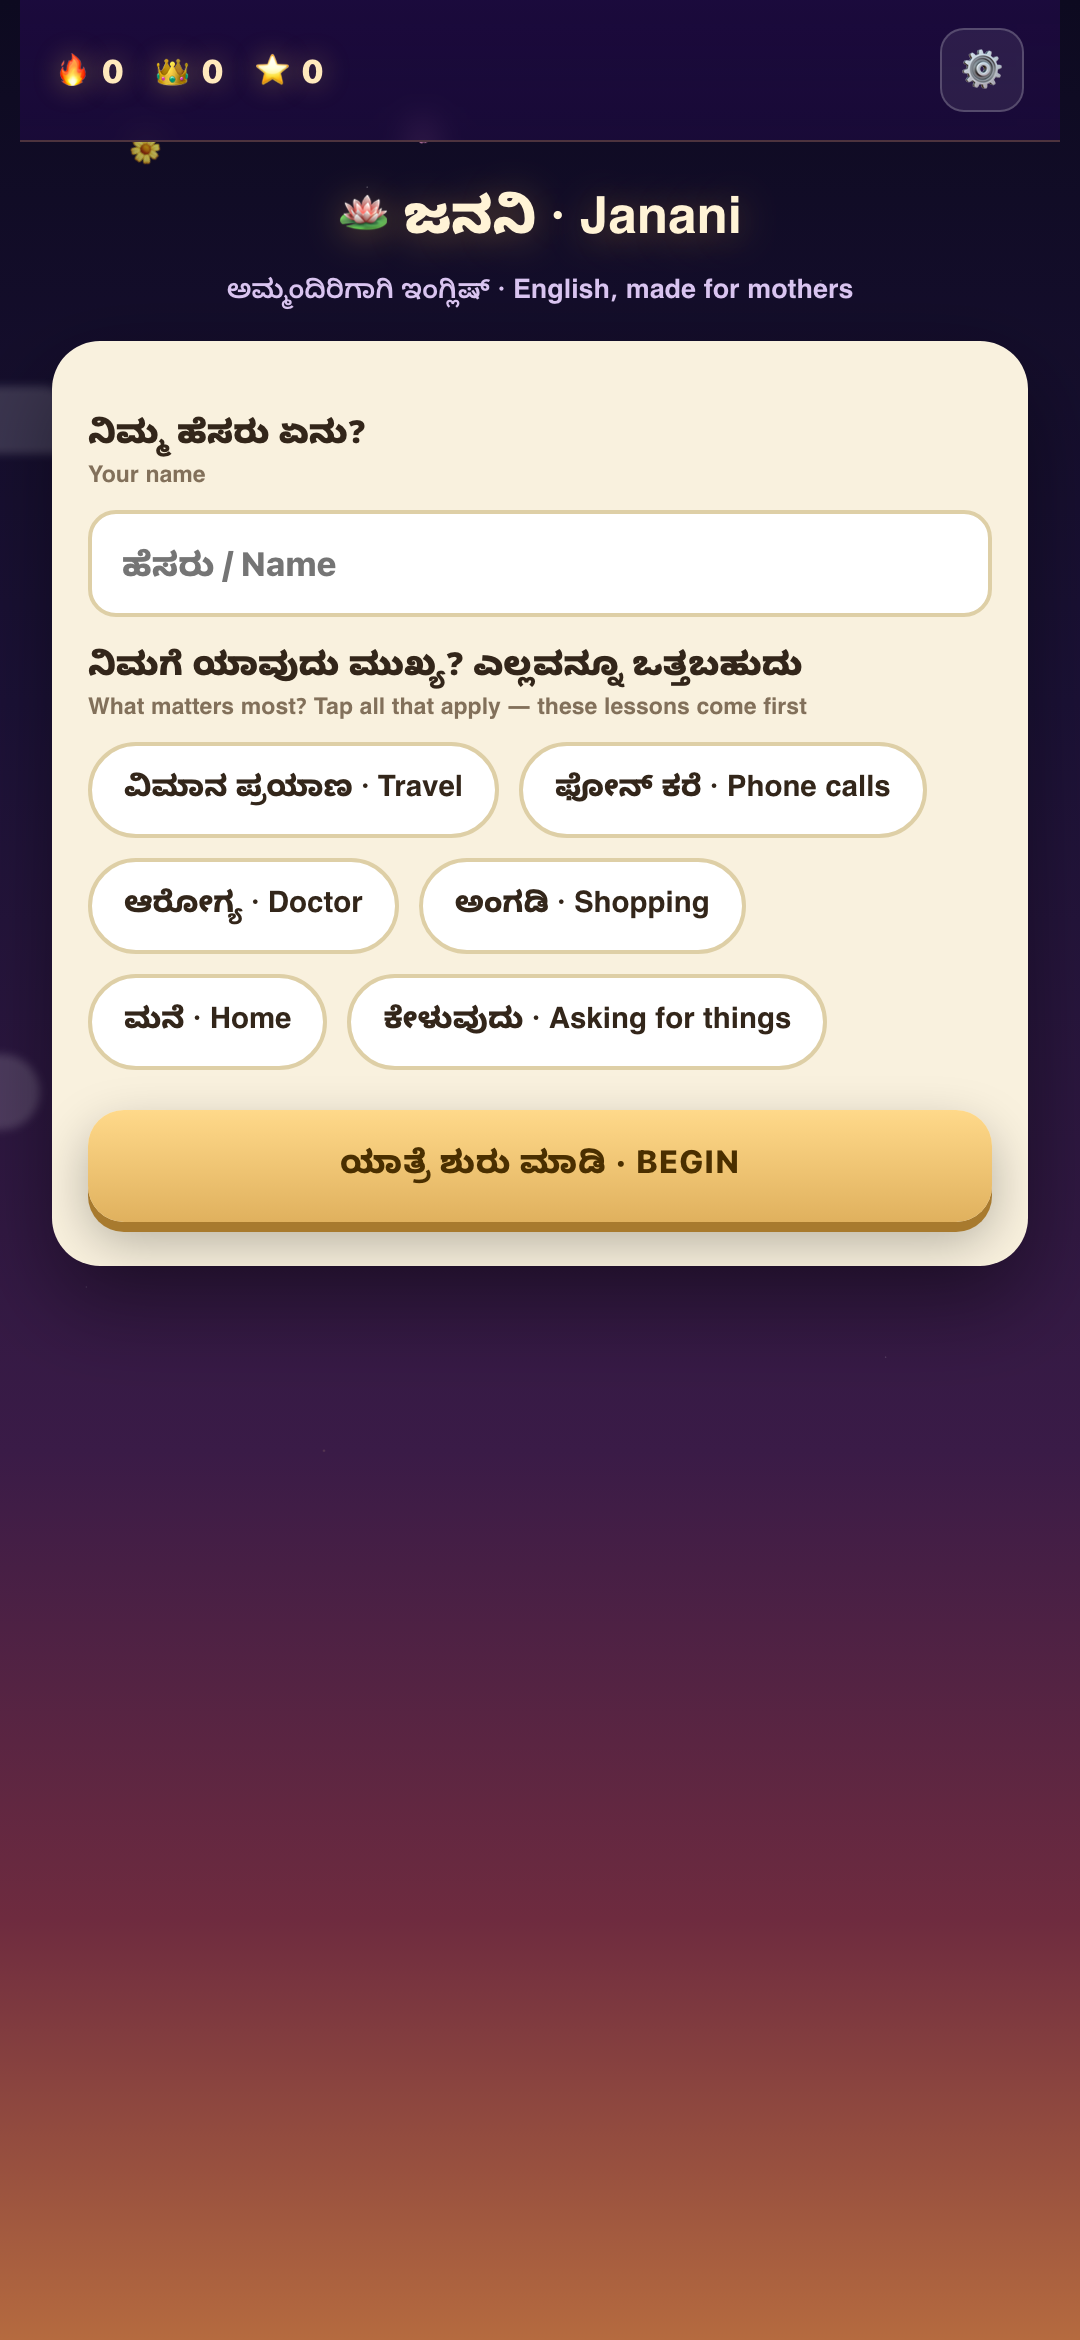
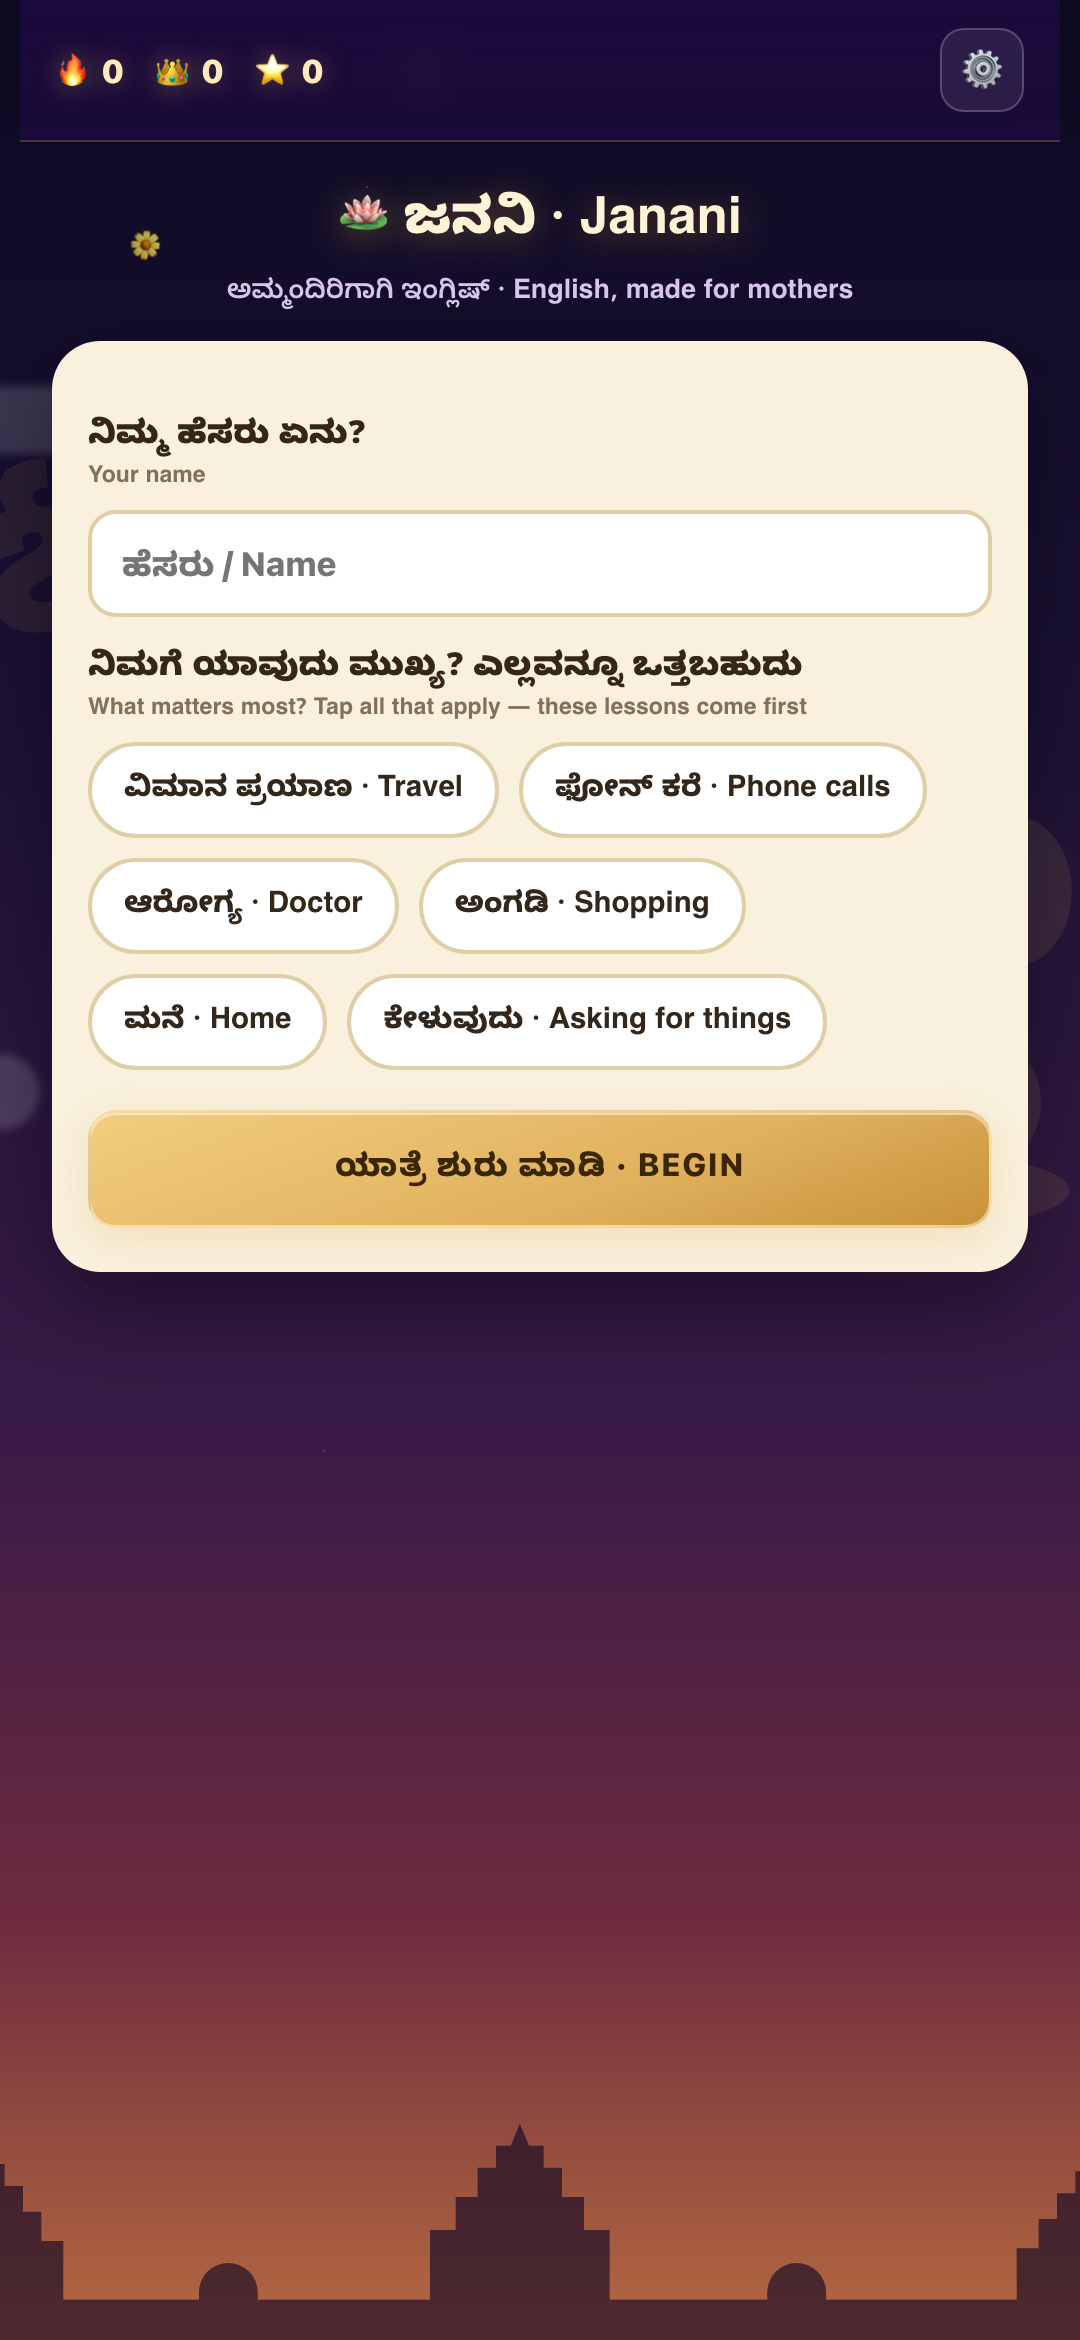
v12: progress rangoli (mandala fills as lessons complete), time-of-day living sky, flickering lit diyas, version stamp

Changed region(s): [[0.0, 0.9047, 1.0, 1.0], [0.0611, 0.4679, 0.9167, 0.5615], [0.1222, 0.0624, 0.1528, 0.1248]]

diff --git a/index.html b/index.html
@@ -24,6 +24,8 @@
     background:linear-gradient(180deg,var(--sky1) 0%,var(--sky2) 30%,var(--sky3) 62%,var(--sky4) 82%,var(--horizon) 105%);
     background-attachment:fixed;
   }
+  body.sky-morning{background:linear-gradient(180deg,#241638 0%,#3A2158 28%,#7A3D66 58%,#C97C5A 84%,#E8B36A 105%);background-attachment:fixed}
+  body.sky-day{background:linear-gradient(180deg,#1B2145 0%,#2C3168 34%,#5C4C86 64%,#8E5C74 85%,#D89A5E 105%);background-attachment:fixed}
   .kn{font-family:"Noto Sans Kannada","Noto Sans","Nirmala UI",sans-serif}
   button{font-family:inherit;font-weight:800;cursor:pointer}
   .hidden{display:none!important}
@@ -70,7 +72,7 @@
   .bg-ganesha{position:fixed;right:-30px;top:30%;width:220px;opacity:.12;z-index:0;pointer-events:none;filter:drop-shadow(0 0 30px rgba(224,177,94,.25))}
   .bg-gopuram{position:fixed;bottom:0;left:0;width:100%;height:110px;opacity:.65;z-index:0;pointer-events:none}
   @media (prefers-reduced-motion:reduce){
-    .stars,.stars2,.petal,.cloud,.node .bubble,.mascot{animation:none!important}
+    .stars,.stars2,.petal,.cloud,.node .bubble,.mascot,.diya.lit{animation:none!important}
     *{transition:none!important}
   }
 
@@ -241,6 +243,13 @@
     font-size:calc(1.02rem*var(--fs));box-shadow:0 8px 22px rgba(0,0,0,.35);border:1px solid rgba(255,255,255,.14)}
   .level-band .lb-en{display:block;font-size:calc(.66rem*var(--fs));letter-spacing:1.3px;text-transform:uppercase;opacity:.85;margin-top:4px;font-weight:800}
 
+  /* ================= PROGRESS RANGOLI ================= */
+  .rangoli-wrap{text-align:center;padding:2px 0 10px}
+  .rangoli{width:150px;height:150px;display:inline-block;filter:drop-shadow(0 0 22px rgba(224,177,94,.25))}
+  .rangoli-cap{font-size:calc(.72rem*var(--fs));color:#D9C4F0;font-weight:700;margin-top:2px}
+  .r-lit{fill:var(--gold);stroke:none;opacity:.95}
+  .r-dim{fill:none;stroke:rgba(224,177,94,.3);stroke-width:1.4}
+
   /* ================= TEMPLE-DOOR COURTYARD ================= */
   .hero{width:100%;border:1.5px solid rgba(255,243,214,.55);border-radius:18px;padding:16px;cursor:pointer;
     background:linear-gradient(160deg,#F2CE7E,#E0B15E 55%,#B9852F);color:#3A2504;display:flex;flex-direction:column;gap:3px;
@@ -264,7 +273,8 @@
   .diya{width:70px;height:76px;border:2px solid var(--silk-line);border-radius:50% 50% 42% 42%;background:#fff;
     font-size:1.5rem;display:flex;flex-direction:column;align-items:center;justify-content:center;gap:2px;font-weight:900;color:var(--ink);font-family:inherit;cursor:pointer}
   .diya span{font-size:.68rem;color:var(--ink-soft)}
-  .diya.lit{background:linear-gradient(180deg,#FFF3D6,#F2CE7E);border-color:var(--gold-d)}
+  .diya.lit{background:linear-gradient(180deg,#FFF3D6,#F2CE7E);border-color:var(--gold-d);animation:flick 2.6s ease-in-out infinite}
+  @keyframes flick{0%,100%{filter:brightness(1)}50%{filter:brightness(1.22) drop-shadow(0 0 7px rgba(255,200,90,.65))}}
   .diya.next{border-color:var(--gold);box-shadow:0 0 18px rgba(224,177,94,.55)}
   .diya.off{opacity:.45;cursor:default}
 
@@ -358,6 +368,10 @@
       <button class="hero hidden kn" id="heroGo"></button>
       <button class="btn3d hidden" id="btnReview" style="width:100%">🏹 ದಿನದ ಅಭ್ಯಾಸ · TODAY'S ABHYASA</button>
       <button class="btn3d jade" id="btnGuru" style="width:100%;margin-top:12px">🪶 ಗುರು ಜೊತೆ ಮಾತು · PRACTICE CONVERSATION</button>
+    </div>
+    <div class="rangoli-wrap">
+      <svg id="rangoliSvg" class="rangoli" viewBox="0 0 160 160" aria-hidden="true"></svg>
+      <div class="rangoli-cap kn" id="rangoliCap"></div>
     </div>
     <div id="pathNodes"></div>
     <div class="journey-end">
@@ -455,6 +469,7 @@
     <button class="reset kn" id="btnProfile" style="border-color:var(--silk-line);color:var(--ink)">ಹೆಸರು / ಗುರಿ ಬದಲಿಸಿ · Edit name &amp; goals</button>
     <button class="reset kn" id="btnReset">ಪ್ರಗತಿಯನ್ನು ಅಳಿಸಿ · Reset all progress</button>
     <button class="btn3d close kn" id="btnCloseSheet">ಮುಚ್ಚಿ · CLOSE</button>
+    <div class="sub" style="text-align:center;margin-top:12px;opacity:.7">ಜನನಿ · Janani v1.0.0 — made with love</div>
   </div>
 </div>
 
@@ -900,6 +915,7 @@
   function renderPath(){
     renderHud();
     $("greetTitle").textContent="ನಮಸ್ಕಾರ, "+profName()+" 🌼";
+    renderRangoli();
     var next=null,i;
     for(i=0;i<LESSONS.length;i++){ if(!state.done[LESSONS[i].key]){ next=LESSONS[i]; break; } }
     var hero=$("heroGo");
@@ -934,6 +950,23 @@
     Array.prototype.forEach.call($("pathNodes").querySelectorAll(".door"),function(d){
       d.addEventListener("click",function(){ openParva(+d.getAttribute("data-ui")); });
     });
+  }
+  function renderRangoli(){
+    var total=LESSONS.length, done=0;
+    LESSONS.forEach(function(l){ if(state.done[l.key]) done++; });
+    var svg=$("rangoliSvg"); if(!svg) return;
+    var parts=[{t:"circle",a:{cx:80,cy:80,r:6}}], i;
+    for(i=0;i<8;i++)  parts.push({t:"ellipse",a:{cx:80,cy:52,rx:7,ry:16},rot:i*45});
+    for(i=0;i<12;i++) parts.push({t:"circle",a:{cx:80,cy:28,r:3.5},rot:i*30+15});
+    for(i=0;i<8;i++)  parts.push({t:"path",a:{d:"M80,14 q6,10 0,20 q-6,-10 0,-20"},rot:i*45+22.5});
+    var lit=Math.round(parts.length*done/Math.max(1,total));
+    var out="";
+    parts.forEach(function(p,ix){
+      var attrs="",k; for(k in p.a) attrs+=k+'="'+p.a[k]+'" ';
+      out+="<"+p.t+" "+attrs+'class="'+(ix<lit?"r-lit":"r-dim")+'"'+(p.rot!=null?' transform="rotate('+p.rot+' 80 80)"':"")+"/>";
+    });
+    svg.innerHTML=out;
+    $("rangoliCap").textContent="ನಿಮ್ಮ ಪ್ರಗತಿಯ ರಂಗೋಲಿ · "+done+" / "+total+" ಪಾಠ";
   }
   function openParva(ui){
     var u=UNITS[ui], uL=LESSONS.filter(function(l){return l.ui===ui;});
@@ -1426,6 +1459,11 @@
     renderSetup(); show("setup");
   };
 
+  (function(){
+    var h=new Date().getHours();
+    if(h>=5&&h<11) document.body.classList.add("sky-morning");
+    else if(h>=11&&h<17) document.body.classList.add("sky-day");
+  })();
   applyFs(); applyTg();
   /* #demo — seeded state for store screenshots; harmless for real users */
   if(location.hash.indexOf("#demo")===0 && !state.profile){

diff --git a/sw.js b/sw.js
@@ -1,5 +1,5 @@
 /* Janani — offline cache */
-var CACHE = "janani-v7";
+var CACHE = "janani-v8";
 var ASSETS = ["./", "./index.html", "./manifest.json", "./icon-192.png", "./icon-512.png"];
 
 self.addEventListener("install", function (e) {